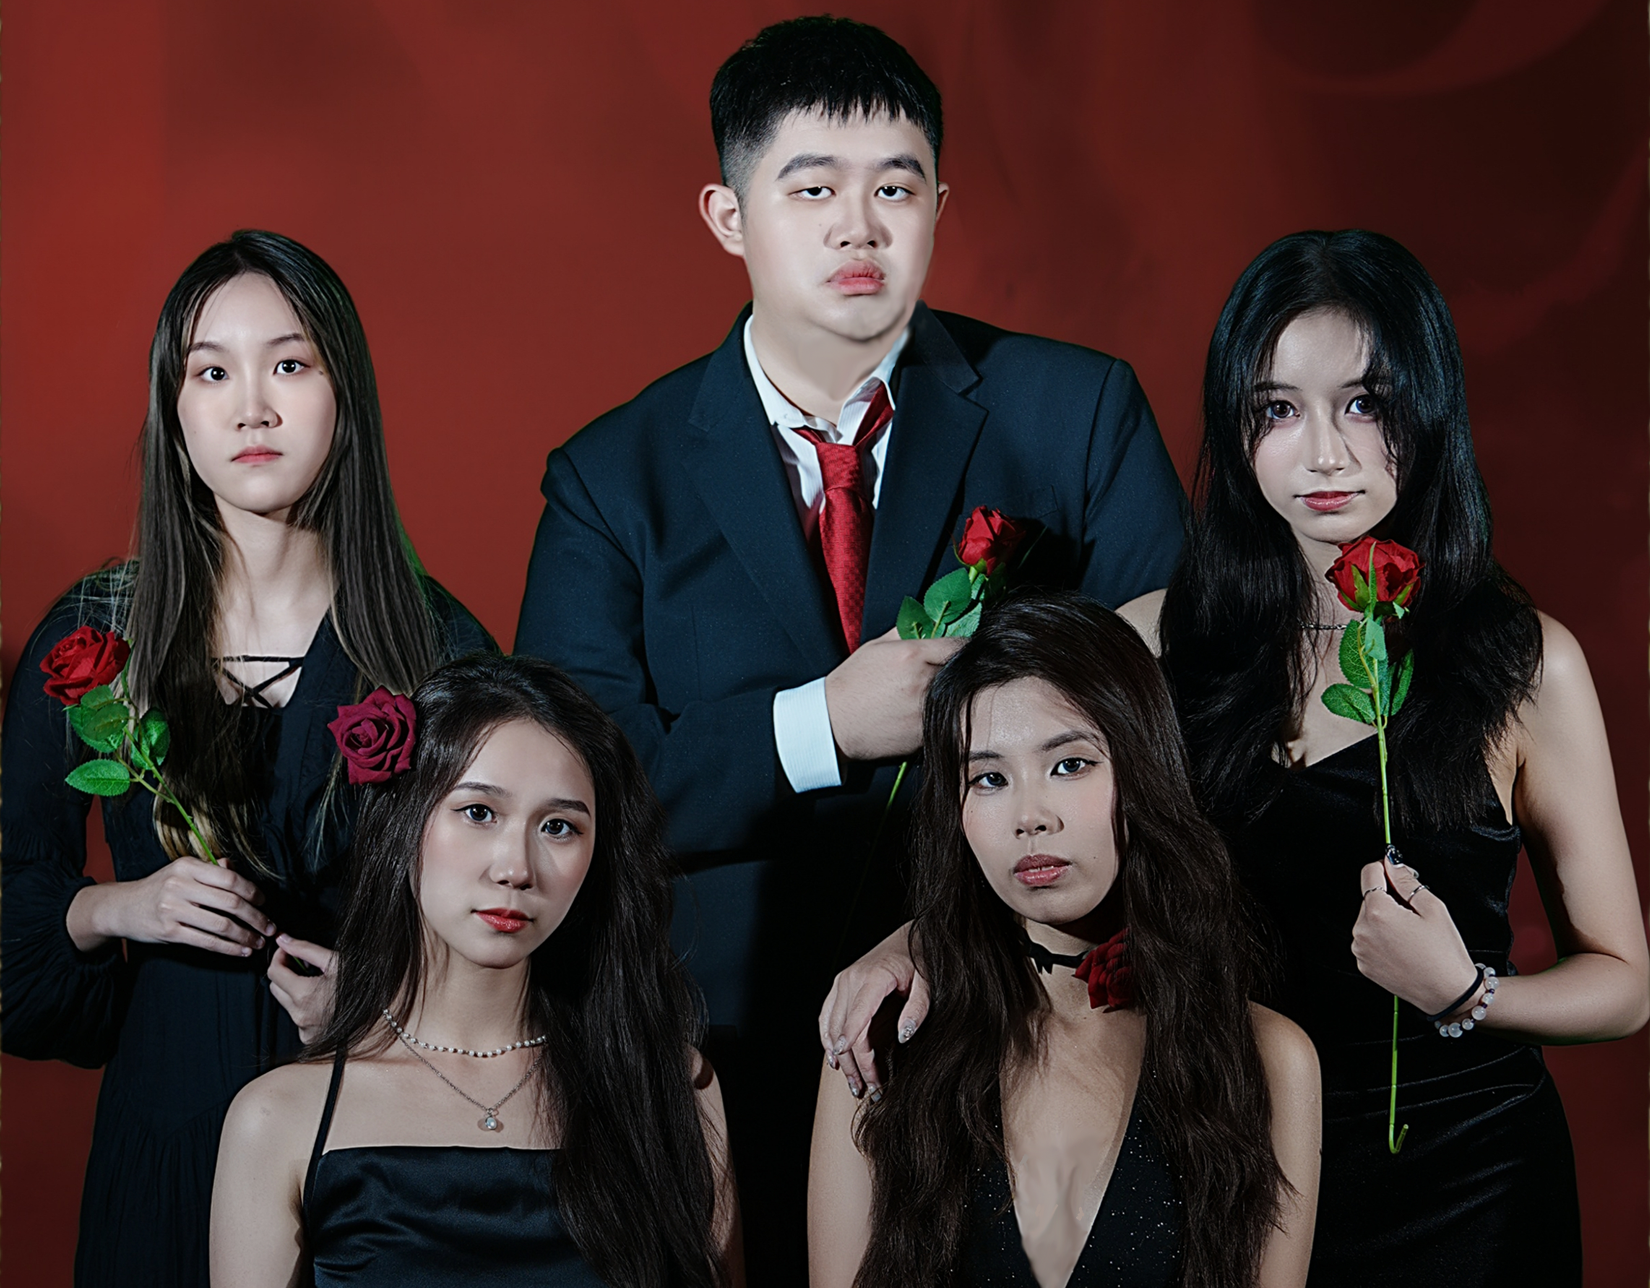
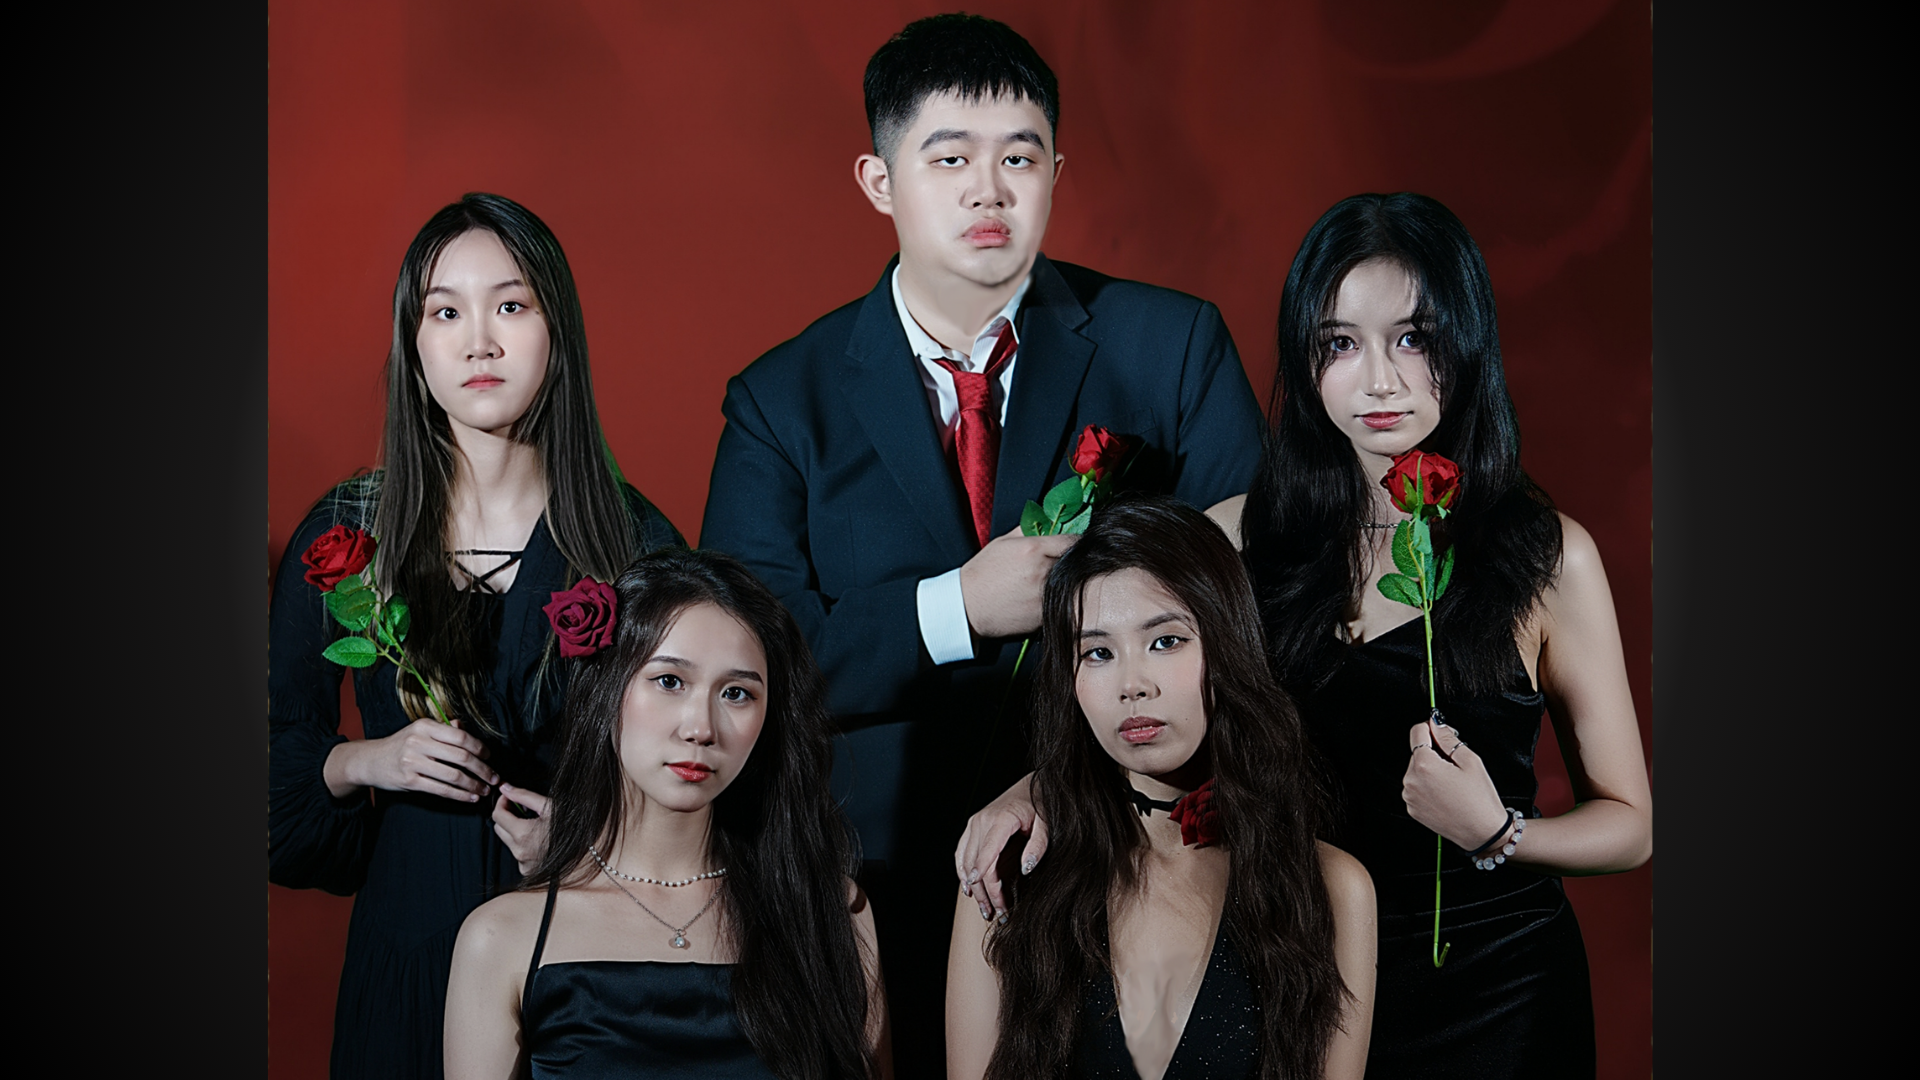
修改手機板布局問題

diff --git a/index.html b/index.html
@@ -70,19 +70,25 @@
             </div>
             <div class="schedule-grid">
                 <div class="schedule-item">
+                    <a href="https://www.opentix.life/event/2028689040269783041" target="_blank">
                     <span class="date">05/30 (六)</span>
                     <span class="time">14:30</span>
                     <span class="note">第一場</span>
+                    </a>
                 </div>
                 <div class="schedule-item">
+                    <a href="https://www.opentix.life/event/2028689040269783041" target="_blank">
                     <span class="date">05/30 (六)</span>
                     <span class="time">19:30</span>
                     <span class="note">第二場</span>
+                    </a>
                 </div>
                 <div class="schedule-item">
+                    <a href="https://www.opentix.life/event/2028689040269783041" target="_blank">
                     <span class="date">05/31 (日)</span>
                     <span class="time">14:30</span>
                     <span class="note">第三場</span>
+                    </a>
                 </div>
             </div>
         </div>
@@ -135,8 +141,7 @@
                         <div class="team-group-photo">
                             <!-- Placeholder gray block -->
                             <div class="photo-placeholder">
-                                <img src="images/team/group.png" alt="主創團隊"
-                                    style="width: 100%; height: 100%; object-fit: cover; object-position: center 20%; background-color: black;">
+                                <img src="images/team/group.png" alt="主創團隊" style="object-fit: cover;">
 
                             </div>
 
@@ -169,8 +174,8 @@
                         <h3 class="member-name">鄭惠婷</h3>
                         <div class="member-bio">
                             <p>「讓每一個畫面都如詩般流動。」</p>
-                            <p>畢業於紐約大學電影學院，擅長以詩意的鏡頭語言講述溫柔而深刻的故事。曾執導多部備受好評的舞台劇作品，以細膩的情感刻畫和獨特的美學風格著稱。</p>
-                            <p>代表作品包括《時光書店》、《記憶的重量》等，多次獲得劇場界的最佳導演獎項。</p>
+                            <p>嗨一！我是這次身兼編導與妝造的小鄭，也是劇組裡整天操心大小事的「鄭媽咪」！
+我在排練場上通常很嚴肅，對每個細節都有著無比的偏執。但私底下的我，其實是隨時都在講爛梗的搞笑女嘻嘻。這部戲對我來說很特別，劇裡的每一個角色其實都包含了一部分的我（我是有點精神分裂的笑死）。但同時，他們也是這座校園裡許多人的縮影。期待你們走進劇場，在故事裡看見我們，也看見你們自己！</p>
                         </div>
                     </div>
                 </div>
@@ -602,8 +607,8 @@
                 </div>
                 <div class="prod-info">
                     <h4>如果青春會開花 酷卡</h4>
-                    <p class="prod-price">價格待公布</p>
-                    <button class="btn-sm">加入購物車</button>
+
+                    <button class="btn-sm"><a href="https://www.zeczec.com/projects/z-14e3ece18e/orders/back_project#_=_" target="_blank">前往嘖嘖募資</a></button>
                 </div>
             </div>
 
@@ -615,8 +620,8 @@
                 </div>
                 <div class="prod-info">
                     <h4>如果青春會開花 貼紙</h4>
-                    <p class="prod-price">價格待公布</p>
-                    <button class="btn-sm">加入購物車</button>
+
+                    <button class="btn-sm"><a href="https://www.zeczec.com/projects/z-14e3ece18e/orders/back_project#_=_" target="_blank">前往嘖嘖募資</a></button>
                 </div>
             </div>
 
@@ -628,8 +633,7 @@
                 </div>
                 <div class="prod-info">
                     <h4>如果青春會開花 帆布袋</h4>
-                    <p class="prod-price">價格待公布</p>
-                    <button class="btn-sm">加入購物車</button>
+                    <button class="btn-sm"><a href="https://www.zeczec.com/projects/z-14e3ece18e/orders/back_project#_=_" target="_blank">前往嘖嘖募資</a></button>
                 </div>
             </div>
 
@@ -641,8 +645,7 @@
                 </div>
                 <div class="prod-info">
                     <h4>如果青春會開花 杯子</h4>
-                    <p class="prod-price">價格待公布</p>
-                    <button class="btn-sm">加入購物車</button>
+                    <button class="btn-sm"><a href="https://www.zeczec.com/projects/z-14e3ece18e/orders/back_project#_=_" target="_blank">前往嘖嘖募資</a></button>
                 </div>
             </div>
         </div>

diff --git a/js/mobile-menu.js b/js/mobile-menu.js
@@ -16,6 +16,9 @@ function setGlassify(visible) {
 function openMenu(hamburgerEl, navLinksEl) {
     hamburgerEl.classList.add('active');
     navLinksEl.classList.add('active');
+    document.body.classList.add('menu-open');
+    const nav = document.querySelector('nav');
+    if (nav) nav.classList.add('menu-open');
     document.body.style.overflow = 'hidden';
     setGlassify(false);          // 暫停 glassi-fy，露出真正的黑色底色
 }
@@ -23,6 +26,9 @@ function openMenu(hamburgerEl, navLinksEl) {
 function closeMenu(hamburgerEl, navLinksEl) {
     hamburgerEl.classList.remove('active');
     navLinksEl.classList.remove('active');
+    document.body.classList.remove('menu-open');
+    const nav = document.querySelector('nav');
+    if (nav) nav.classList.remove('menu-open');
     document.body.style.overflow = '';
     setGlassify(true);           // 恢復 glassi-fy 效果
 }

diff --git a/css/style.css b/css/style.css
@@ -1377,19 +1377,19 @@ header#hero {
 }
 
 .btn-sm {
-    background: transparent;
+    background: #ffda46;
     border: 1px solid #444;
-    color: #ccc;
+    color: #000;
     padding: 8px 16px;
     font-size: 0.8rem;
     cursor: pointer;
-    transition: 0.3s;
     margin-top: 10px;
 }
 
 .btn-sm:hover {
     border-color: var(--gold-500);
     color: var(--gold-500);
+    background-color: #000;
 }
 
 /* --- Footer --- */

diff --git a/css/mobile-fixes.css b/css/mobile-fixes.css
@@ -25,6 +25,12 @@ body {
         box-sizing: border-box;
     }
 
+    /* 修正：首頁頂端 nav 使用 mix-blend-mode:difference 會讓選單黑底被混色吃掉。
+       選單打開時暫時關閉混色，確保背景真的變黑。 */
+    body.menu-open nav {
+        mix-blend-mode: normal !important;
+    }
+
     nav.scrolled {
         padding: 0.8rem 1rem !important;
         margin: 0.5rem;

diff --git a/css/cast-accordion.css b/css/cast-accordion.css
@@ -133,7 +133,7 @@
     gap: 1rem;
     position: relative;
     opacity: 0;
-    transition: opacity 1.6s ease;
+    transition: opacity 0.2s ease;
 }
 
 /* 展開狀態的分類標籤 */
@@ -353,7 +353,7 @@
     /* Mobile Navigation */
     .cast-mobile-nav {
         position: absolute;
-        top: 695px;
+        top: 85%;
         left: 0;
         width: 100%;
         display: flex;

diff --git a/css/team-carousel.css b/css/team-carousel.css
@@ -3,7 +3,7 @@
 .team-carousel-container {
     width: 100%;
     max-width: 1200px;
-    height: 60%;
+    height: 100%;
     position: relative;
     margin: 0 auto;
     padding: 1rem 0;
@@ -241,7 +241,7 @@
     .team-carousel-container {
     width: 100%;
     max-width: 1200px;
-    height: 60%;
+    height: 100%;
     position: relative;
     margin: 0 auto;
     padding: 0;

diff --git a/css/team-group-photo.css b/css/team-group-photo.css
@@ -22,8 +22,8 @@
 /* Team Group Photo Container */
 .team-group-photo {
     width: 100%;
-    max-width: 700px;
-    height: 500px;
+    max-width: 1024px;
+    height: 450px;
     position: relative;
     margin: 0 auto;
     border-radius: 8px;
